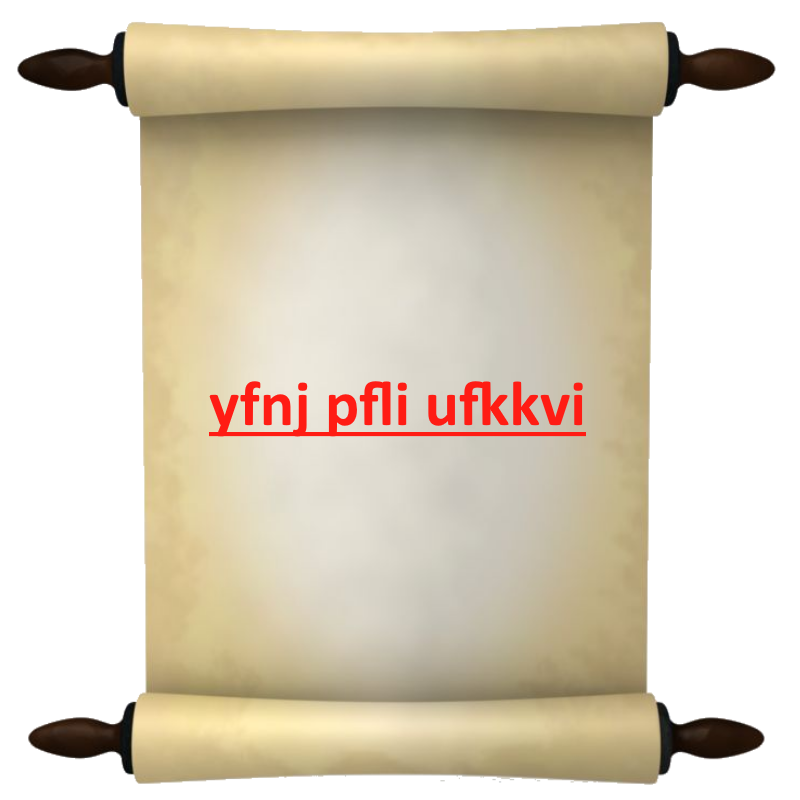
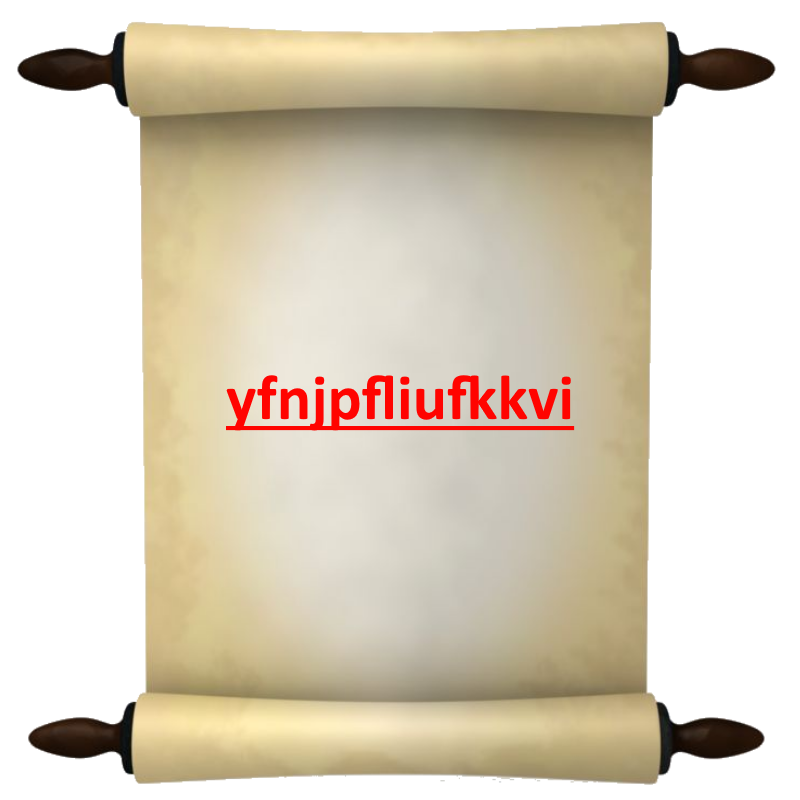
Added rules/tips sprite to dungeon game, & other minor changes

Changed region(s): [[0.25, 0.4688, 0.75, 0.5625]]

diff --git a/DungeonGameEngine.cpp b/DungeonGameEngine.cpp
@@ -1,9 +1,5 @@
 #include "DungeonGameEngine.h"    
 
-DungeonGameEngine::DungeonGameEngine() {
-
-}
-
 DungeonGameEngine::DungeonGameEngine(MenuScreen* menu) {
     menuPtr = menu;
     roomVec.resize(3);
@@ -17,7 +13,7 @@ DungeonGameEngine::~DungeonGameEngine() {
 void DungeonGameEngine::initRooms() {
     /**
      * WHEN YOU CREATE A NEW ROOM YOU NEED TO RESIZE THE roomVec IN THE CONSTRUCTOR TO THE APPROPRIATE
-     * SIZE OR TEXTURES WILL NOT POINT TO CORRECT PLACE IN MEMORY WHEN THE VECTOR AUTOMATICALLY RESIZES
+     * SIZE OR TEXTURES WILL NOT POINT TO CORRECT PLACE IN MEMORY WHEN THE VECTOR AUTOMATICALLY RESIZ
      * 
     */
 
@@ -35,9 +31,17 @@ void DungeonGameEngine::initRooms() {
     if (!clue5.loadFromFile("images/Dungeon/Clue2_Unlocked.png")) menuPtr->menuScreen->close();
     if (!clue6.loadFromFile("images/Dungeon/Clue3_Unlocked.png")) menuPtr->menuScreen->close();
     if (!hiddenSpot.loadFromFile("images/Dungeon/HiddenSpot.png")) menuPtr->menuScreen->close();
+    if (!rulesTexture.loadFromFile("images/Dungeon/Rules.png")) menuPtr->menuScreen->close();
+    if (!rulesPromptTexture.loadFromFile("images/Dungeon/RulesPrompt.png")) menuPtr->menuScreen->close();
 
     //Variable used as index to current room
     roomCount = 0;
+
+    //Rules
+    rulesSprite.setTexture(rulesTexture);
+    rulesSprite.setPosition(menuPtr->menuScreen->getSize().x - rulesSprite.getGlobalBounds().width , 0);
+    rulesPromptSprite.setTexture(rulesPromptTexture);
+    rulesPromptSprite.setPosition(0,0);
 
     //Front door
     DungeonRoom room_0;
@@ -234,7 +238,7 @@ void DungeonGameEngine::initRooms() {
     roomVec[2].clueSpriteVec.resize(7);
     roomVec[2].hiddenSpotVec.resize(6);
     roomVec[2].roomId = 2;
-    roomVec[2].roomAnswer = "hows your dotter";
+    roomVec[2].roomAnswer = "howsyourdotter";
     roomVec[2].isPuzzleSolved = false;
     roomVec[2].isClue1Hidden = true;
     roomVec[2].isClue2Hidden = true;
@@ -346,10 +350,13 @@ void DungeonGameEngine::update() {
                     }
                     menuPtr->is_MenuMusic_Paused = !(menuPtr->is_MenuMusic_Paused);
                 } else if (roomVec[roomCount].hiddenSpotVec[0].getGlobalBounds().contains(mousePosition) && roomVec[roomCount].isClue1Hidden  && roomVec[roomCount].isClue2Hidden  && roomVec[roomCount].isClue3Hidden) { //Hidden Spot 1
+                    //Reveal Clue 1
                     roomVec[roomCount].isClue1Hidden = false;
                 } else if (roomVec[roomCount].hiddenSpotVec[1].getGlobalBounds().contains(mousePosition) && !roomVec[roomCount].isClue1Hidden && roomVec[roomCount].isClue2Hidden  && roomVec[roomCount].isClue3Hidden) { //Hidden Spot 2
+                    //Reveal Clue 2
                     roomVec[roomCount].isClue2Hidden = false;
                 } else if (roomVec[roomCount].hiddenSpotVec[2].getGlobalBounds().contains(mousePosition) && !roomVec[roomCount].isClue1Hidden && !roomVec[roomCount].isClue2Hidden && roomVec[roomCount].isClue3Hidden) { //Hidden Spot 3
+                    //Reveal Clue 3
                     roomVec[roomCount].isClue3Hidden = false;
                 } else if (roomVec[roomCount].clueSpriteVec[0].getGlobalBounds().contains(mousePosition) && !roomVec[roomCount].isClue1Hidden && !roomVec[roomCount].isClue1Opened) { //Clue 1
                     //Display Clue 1
@@ -364,8 +371,8 @@ void DungeonGameEngine::update() {
                     roomVec[roomCount].isClue3Opened = true;
                     displayPuzzlePrompt(roomVec[roomCount].spriteVec[3]);
                 } else if (roomVec[roomCount].clueSpriteVec[3].getGlobalBounds().contains(mousePosition) && roomVec[roomCount].isClue1Opened) { //Clue 1 unlocked
-                                    //Display Clue 1
-                                    displayPuzzlePrompt( roomVec[roomCount].spriteVec[1]);
+                    //Display Clue 1
+                    displayPuzzlePrompt( roomVec[roomCount].spriteVec[1]);
                 } else if (roomVec[roomCount].clueSpriteVec[4].getGlobalBounds().contains(mousePosition) && roomVec[roomCount].isClue2Opened) { //Clue 2 unlocked
                     //Display Clue 2
                     displayPuzzlePrompt(roomVec[roomCount].spriteVec[2]);
@@ -381,12 +388,18 @@ void DungeonGameEngine::update() {
                         roomCount = clamp(roomCount+1, 0, int( roomVec.size() - 1 ));
                     } else {
                         std::cout << "You cannot move forward without solving the puzzle first.\n";
-                        displayAnswerPrompt(roomVec[roomCount].spriteVec[6], roomVec[roomCount].roomAnswer, roomCount);
+                        std::string answer = "";
+                        std::cout << "Type your answer and press enter: ";
+                        std::cin >> answer;
+                        displayAnswerPrompt(roomVec[roomCount].spriteVec[6], roomCount, answer);
                     }
                 } else if (roomVec[roomCount].spriteVec[5].getGlobalBounds().contains(mousePosition)) { //Back arrow
                     //Move backwards a room
                     roomCount = clamp(roomCount-1, 0, int( roomVec.size() - 1 ));
-                } 
+                } else if (rulesSprite.getGlobalBounds().contains(menuPtr->menuScreen->mapPixelToCoords(sf::Mouse::getPosition(*(menuPtr->menuScreen))))) {
+                    //Display Rules
+                    displayPuzzlePrompt( rulesPromptSprite );
+                }
                 break;
 
             default:
@@ -441,6 +454,9 @@ void DungeonGameEngine::render() {
     //Mute Button Last
     menuPtr->menuScreen->draw(menuPtr->muteButtonSprite);
 
+    //Rules Button Sprite
+    menuPtr->menuScreen->draw(rulesSprite);
+
     menuPtr->menuScreen->display();
 }
 
@@ -451,19 +467,16 @@ void DungeonGameEngine::displayPuzzlePrompt(sf::Sprite puzzleSprite) {
     }
 }
 
-void DungeonGameEngine::displayAnswerPrompt(sf::Sprite answerSprite, std::string answerString, int roomCount) {
-    std::string answer = ""; 
+void DungeonGameEngine::displayAnswerPrompt(sf::Sprite answerSprite, int roomCount, std::string ans) {
+    
 
     menuPtr->menuScreen->draw(answerSprite);
     menuPtr->menuScreen->display();
-    std::cout << "Type your answer and press enter: ";
-    std::cin >> answer;
-    if (answerString.compare(answer) == 0) {
+
+    if (roomVec[roomCount].roomAnswer.compare(ans) == 0) {
         std::cout << "\nCorrect Answer.\n";
         roomVec[roomCount].isPuzzleSolved = true;
-
     } else {
         std::cout << "\nIncorrect Answer.\n";
     }
-
 }

diff --git a/DungeonGameEngine.h b/DungeonGameEngine.h
@@ -31,23 +31,26 @@ class DungeonGameEngine {
         sf::Texture ansTexture;
         sf::Texture puzzleClue;
         sf::Texture hiddenSpot;
+        sf::Texture rulesTexture;
+        sf::Texture rulesPromptTexture;
         sf::Texture clue1;
         sf::Texture clue2;
         sf::Texture clue3;
         sf::Texture clue4;
         sf::Texture clue5;
         sf::Texture clue6;
+        sf::Sprite rulesSprite;
+        sf::Sprite rulesPromptSprite;
 
         int roomCount;
 
         DungeonGameEngine(MenuScreen* menuPtr);
-        DungeonGameEngine();
         virtual ~DungeonGameEngine();
         void initRooms();
         void update();
         void render();
         void displayPuzzlePrompt(sf::Sprite puzzleSprite);
-        void displayAnswerPrompt(sf::Sprite answerSprite, std::string answerString, int roomCount);
+        void displayAnswerPrompt(sf::Sprite answerSprite, int roomCount, std::string ans);
         
 };
 
